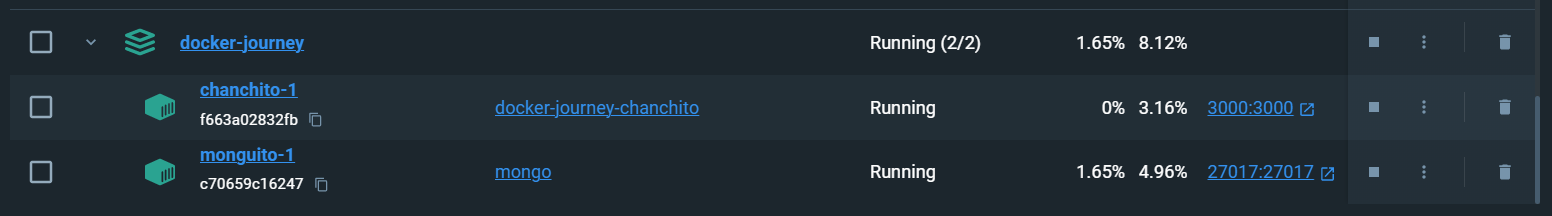
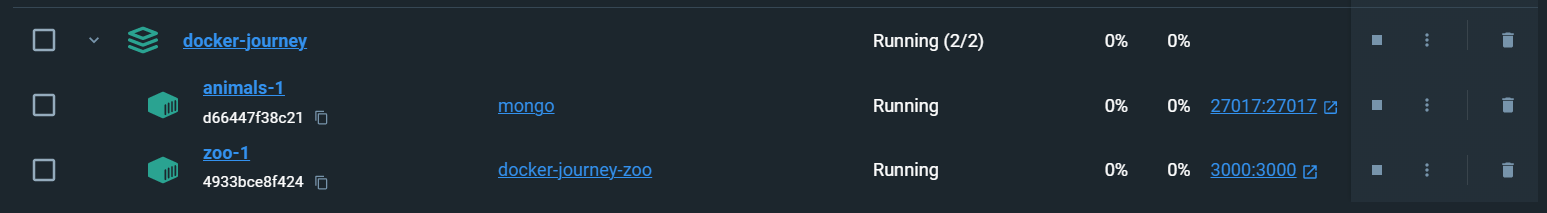
adding docker compose dev enviroment

diff --git a/services/server.js b/services/server.js
@@ -20,7 +20,7 @@ mongoose.connect(
 );
 
 app.get("/", async (_req, res) => {
-  console.log("listando... zoo...");
+  console.log("listando... zoo... adding words");
   const animales = await Animal.find();
   return res.send(animales);
 });

diff --git a/README.md b/README.md
@@ -149,13 +149,14 @@ Once we have our network create, we can run the follow command to create a image
 now, we are creating the mongo container inside of the "mired" network
 
 ```sh
-docker create -p27017:27017 --name animals --network mired -e MONGO_INITDB_ROOT_USERNAME=cavidev -e MONGO_INITDB_ROOT_PASSWORD=admin mongo
+    docker create -p27017:27017 --name animals --network mired -e MONGO_INITDB_ROOT_USERNAME=cavidev -e MONGO_INITDB_ROOT_PASSWORD=admin mongo
 ```
 
 now, we are creating a container with the images that we previous build
 
 ```sh
-docker create -p3000:3000 --name zoo --network mired miapp:1
+    #docker create -p<machinePort>:<dockerPort> --name <containerName> --network <networkName> <imageName>:<imageTag>
+    docker create -p3000:3000 --name zoo --network mired miapp:1
 ```
 
 ## 7. Using docker compose
@@ -216,6 +217,14 @@ services:
 </div>
 
 ## Creating a dev enviroment
+
+```sh
+    docker-compose -f docker-compose-dev.yml up
+```
+
+<div style="text-align: center;">
+    <img src="./img/diagram4-dev.PNG" />
+</div>
 
 [contributors-shield]: https://img.shields.io/github/contributors/cavidev/docker-journey.svg?style=for-the-badge
 [contributors-url]: https://github.com/cavidev/docker-journey/graphs/contributors
